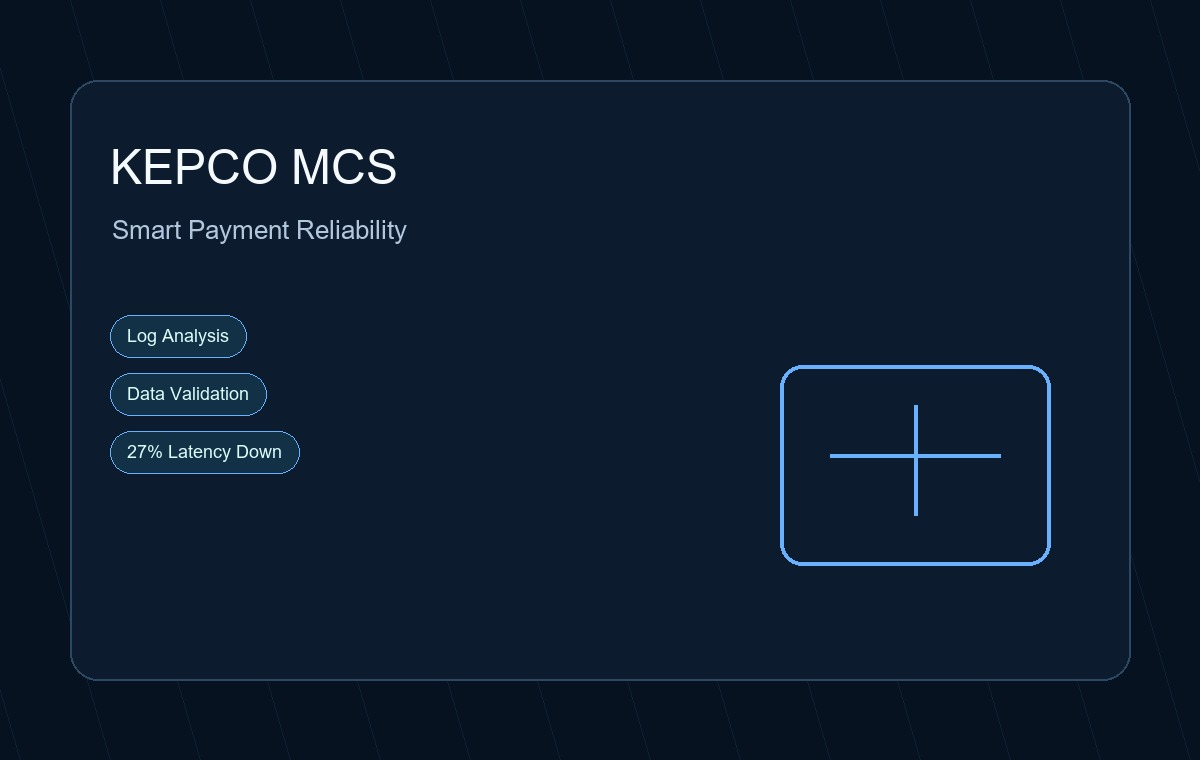
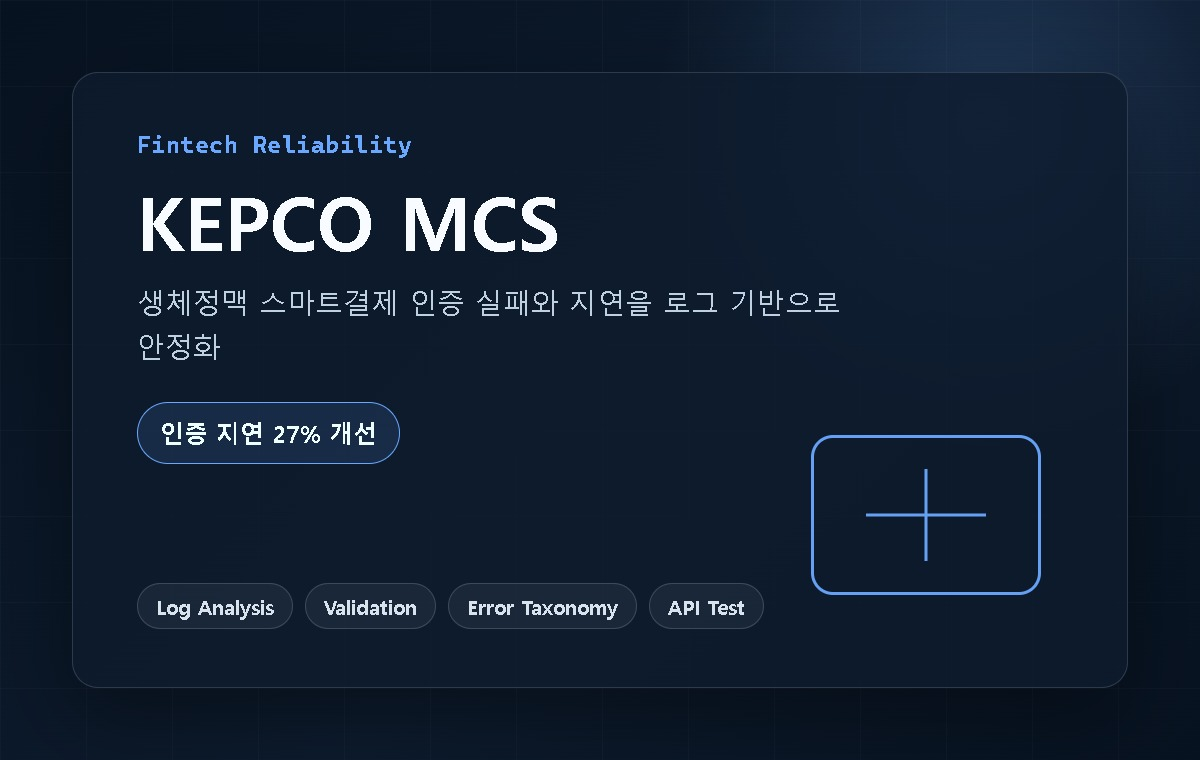
Render project cards from HTML templates

diff --git a/src/styles.css b/src/styles.css
@@ -594,21 +594,26 @@ p {
   color: #9eb0c1;
   font-size: 11px;
   font-weight: 900;
+  line-height: 1.2;
 }
 
 .project-card h3 {
   margin-bottom: 0;
-  font-size: 22px;
+  font-size: 21px;
+  line-height: 1.42;
+  word-break: keep-all;
 }
 
 .project-card p {
   display: -webkit-box;
-  min-height: 52px;
+  min-height: 56px;
   margin-bottom: 0;
   overflow: hidden;
   color: #b9c8d7;
+  line-height: 1.7;
   -webkit-box-orient: vertical;
   -webkit-line-clamp: 2;
+  word-break: keep-all;
 }
 
 .project-metric {
@@ -761,6 +766,11 @@ p {
   grid-template-columns: 0.9fr 1.1fr;
   gap: 24px;
   align-items: center;
+}
+
+.project-modal h3 {
+  line-height: 1.36;
+  word-break: keep-all;
 }
 
 .project-modal-hero > img,